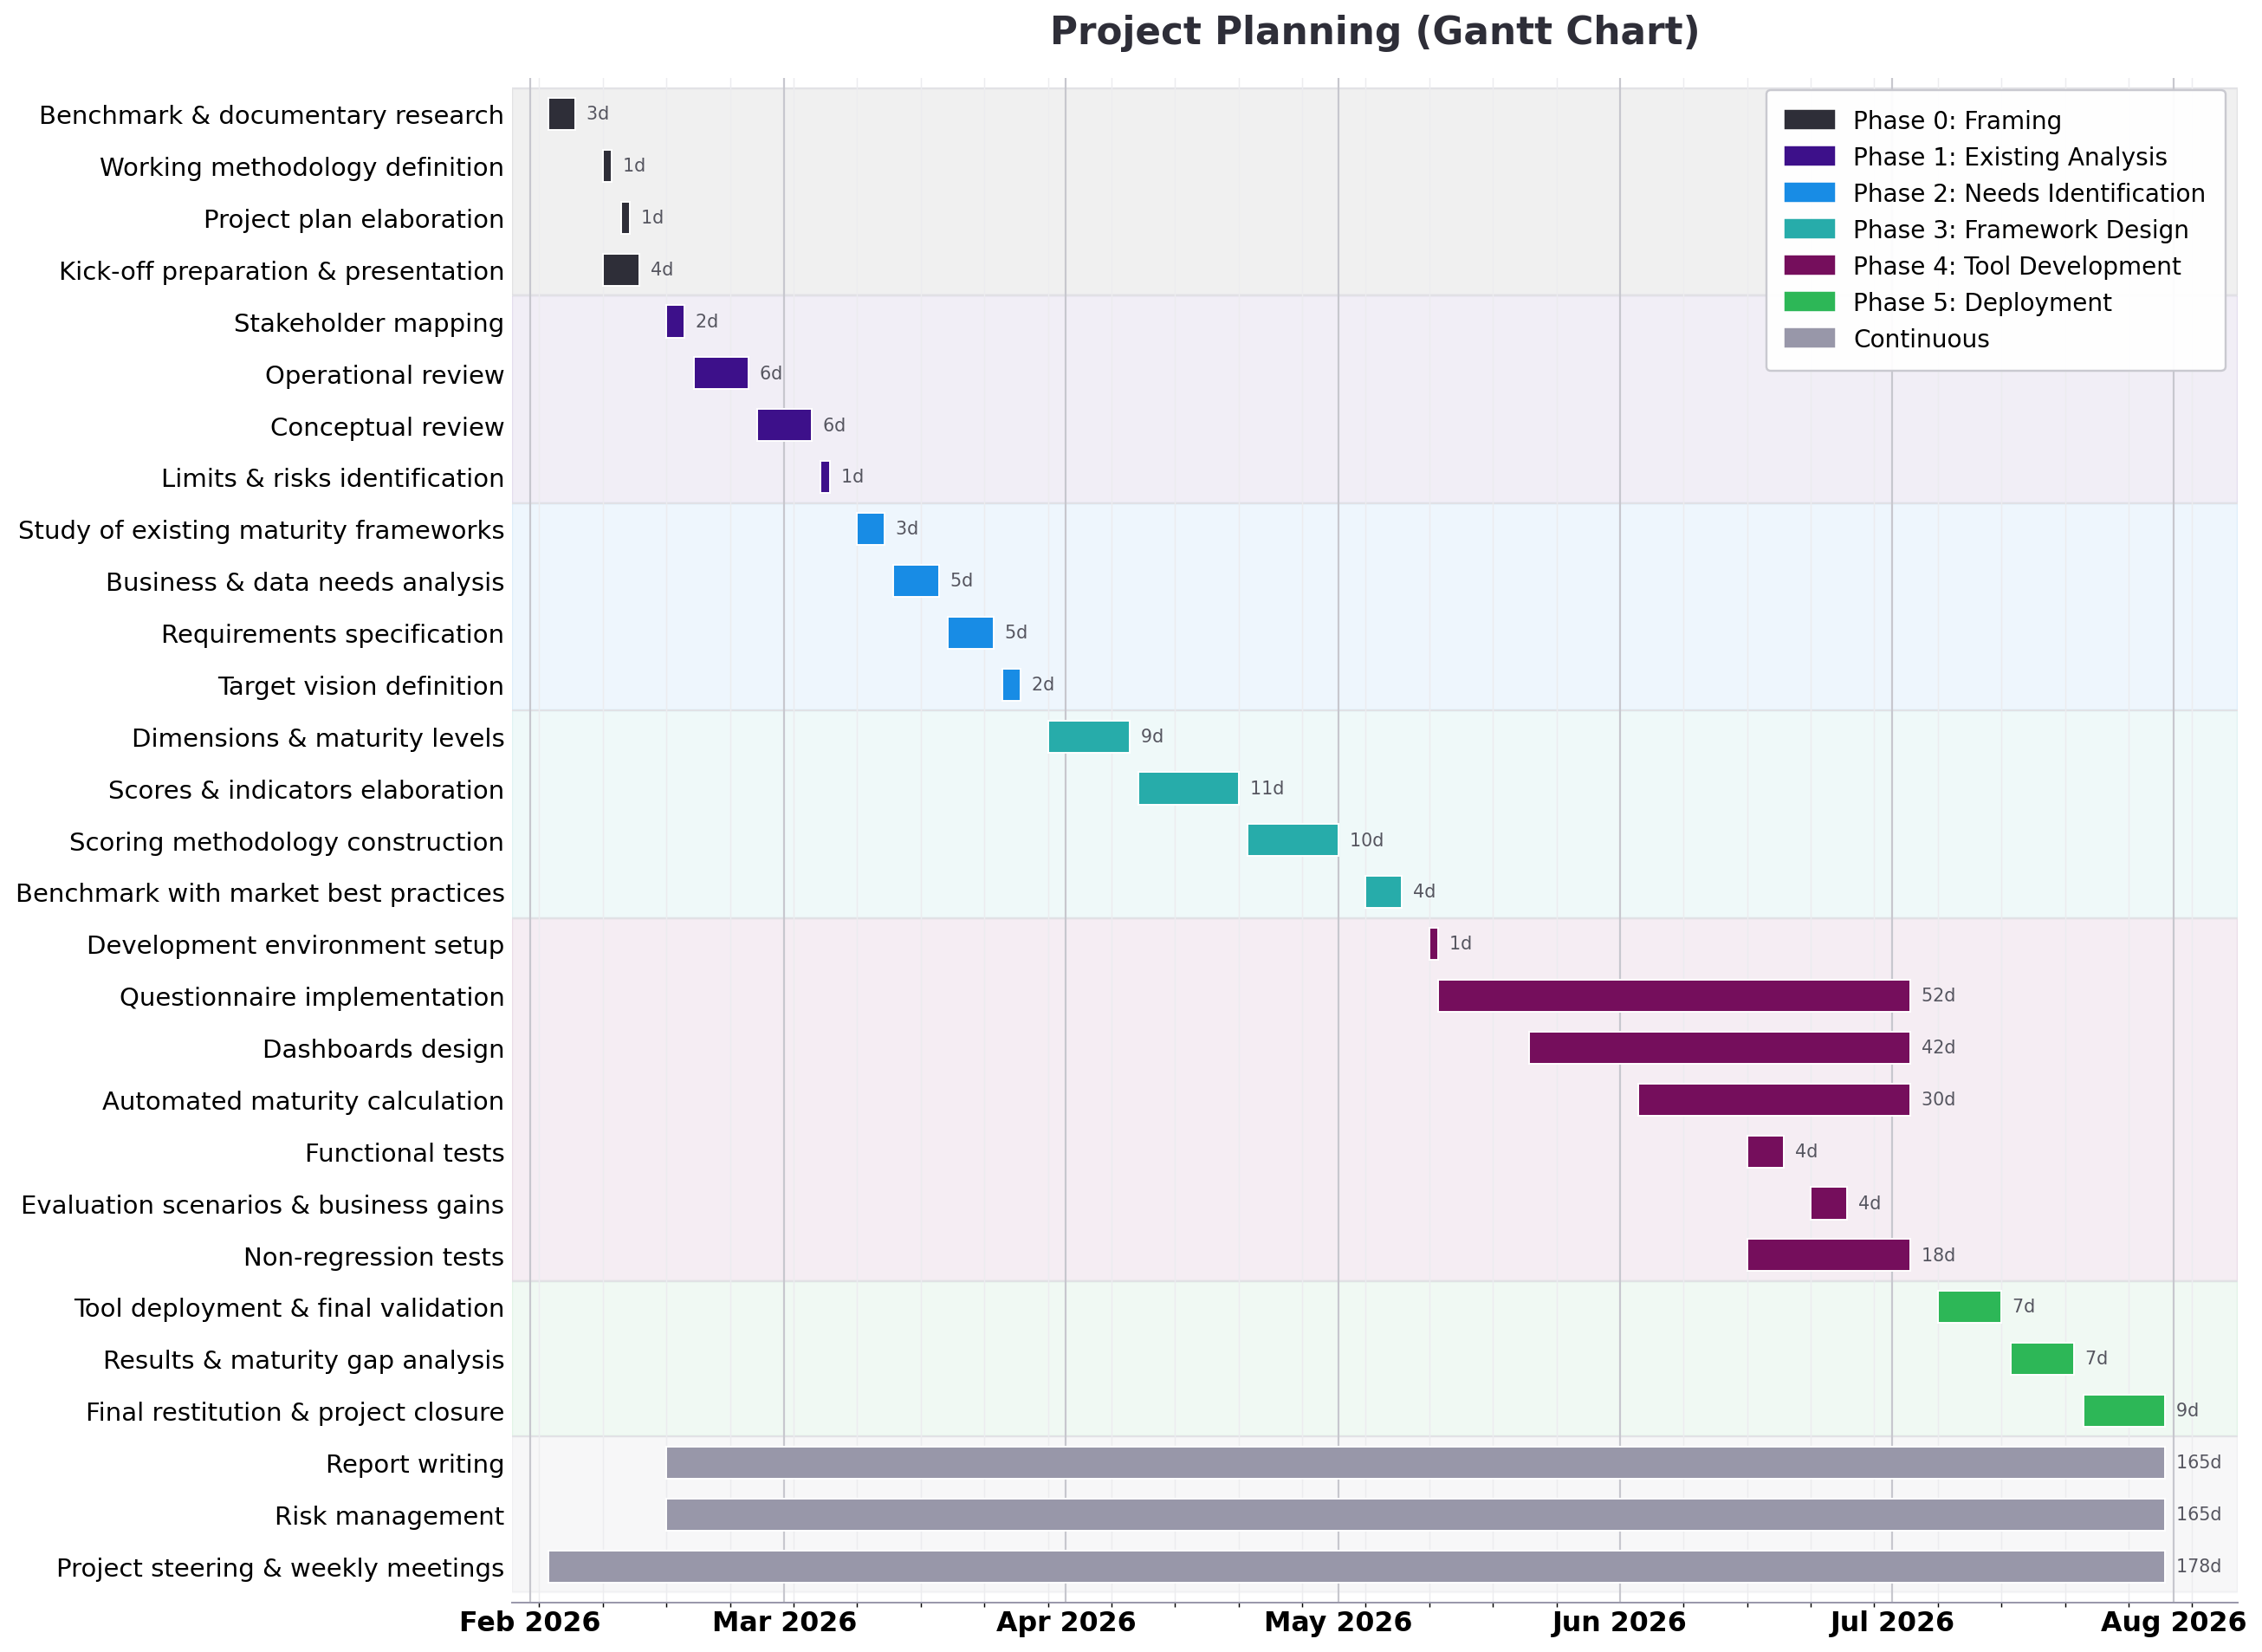
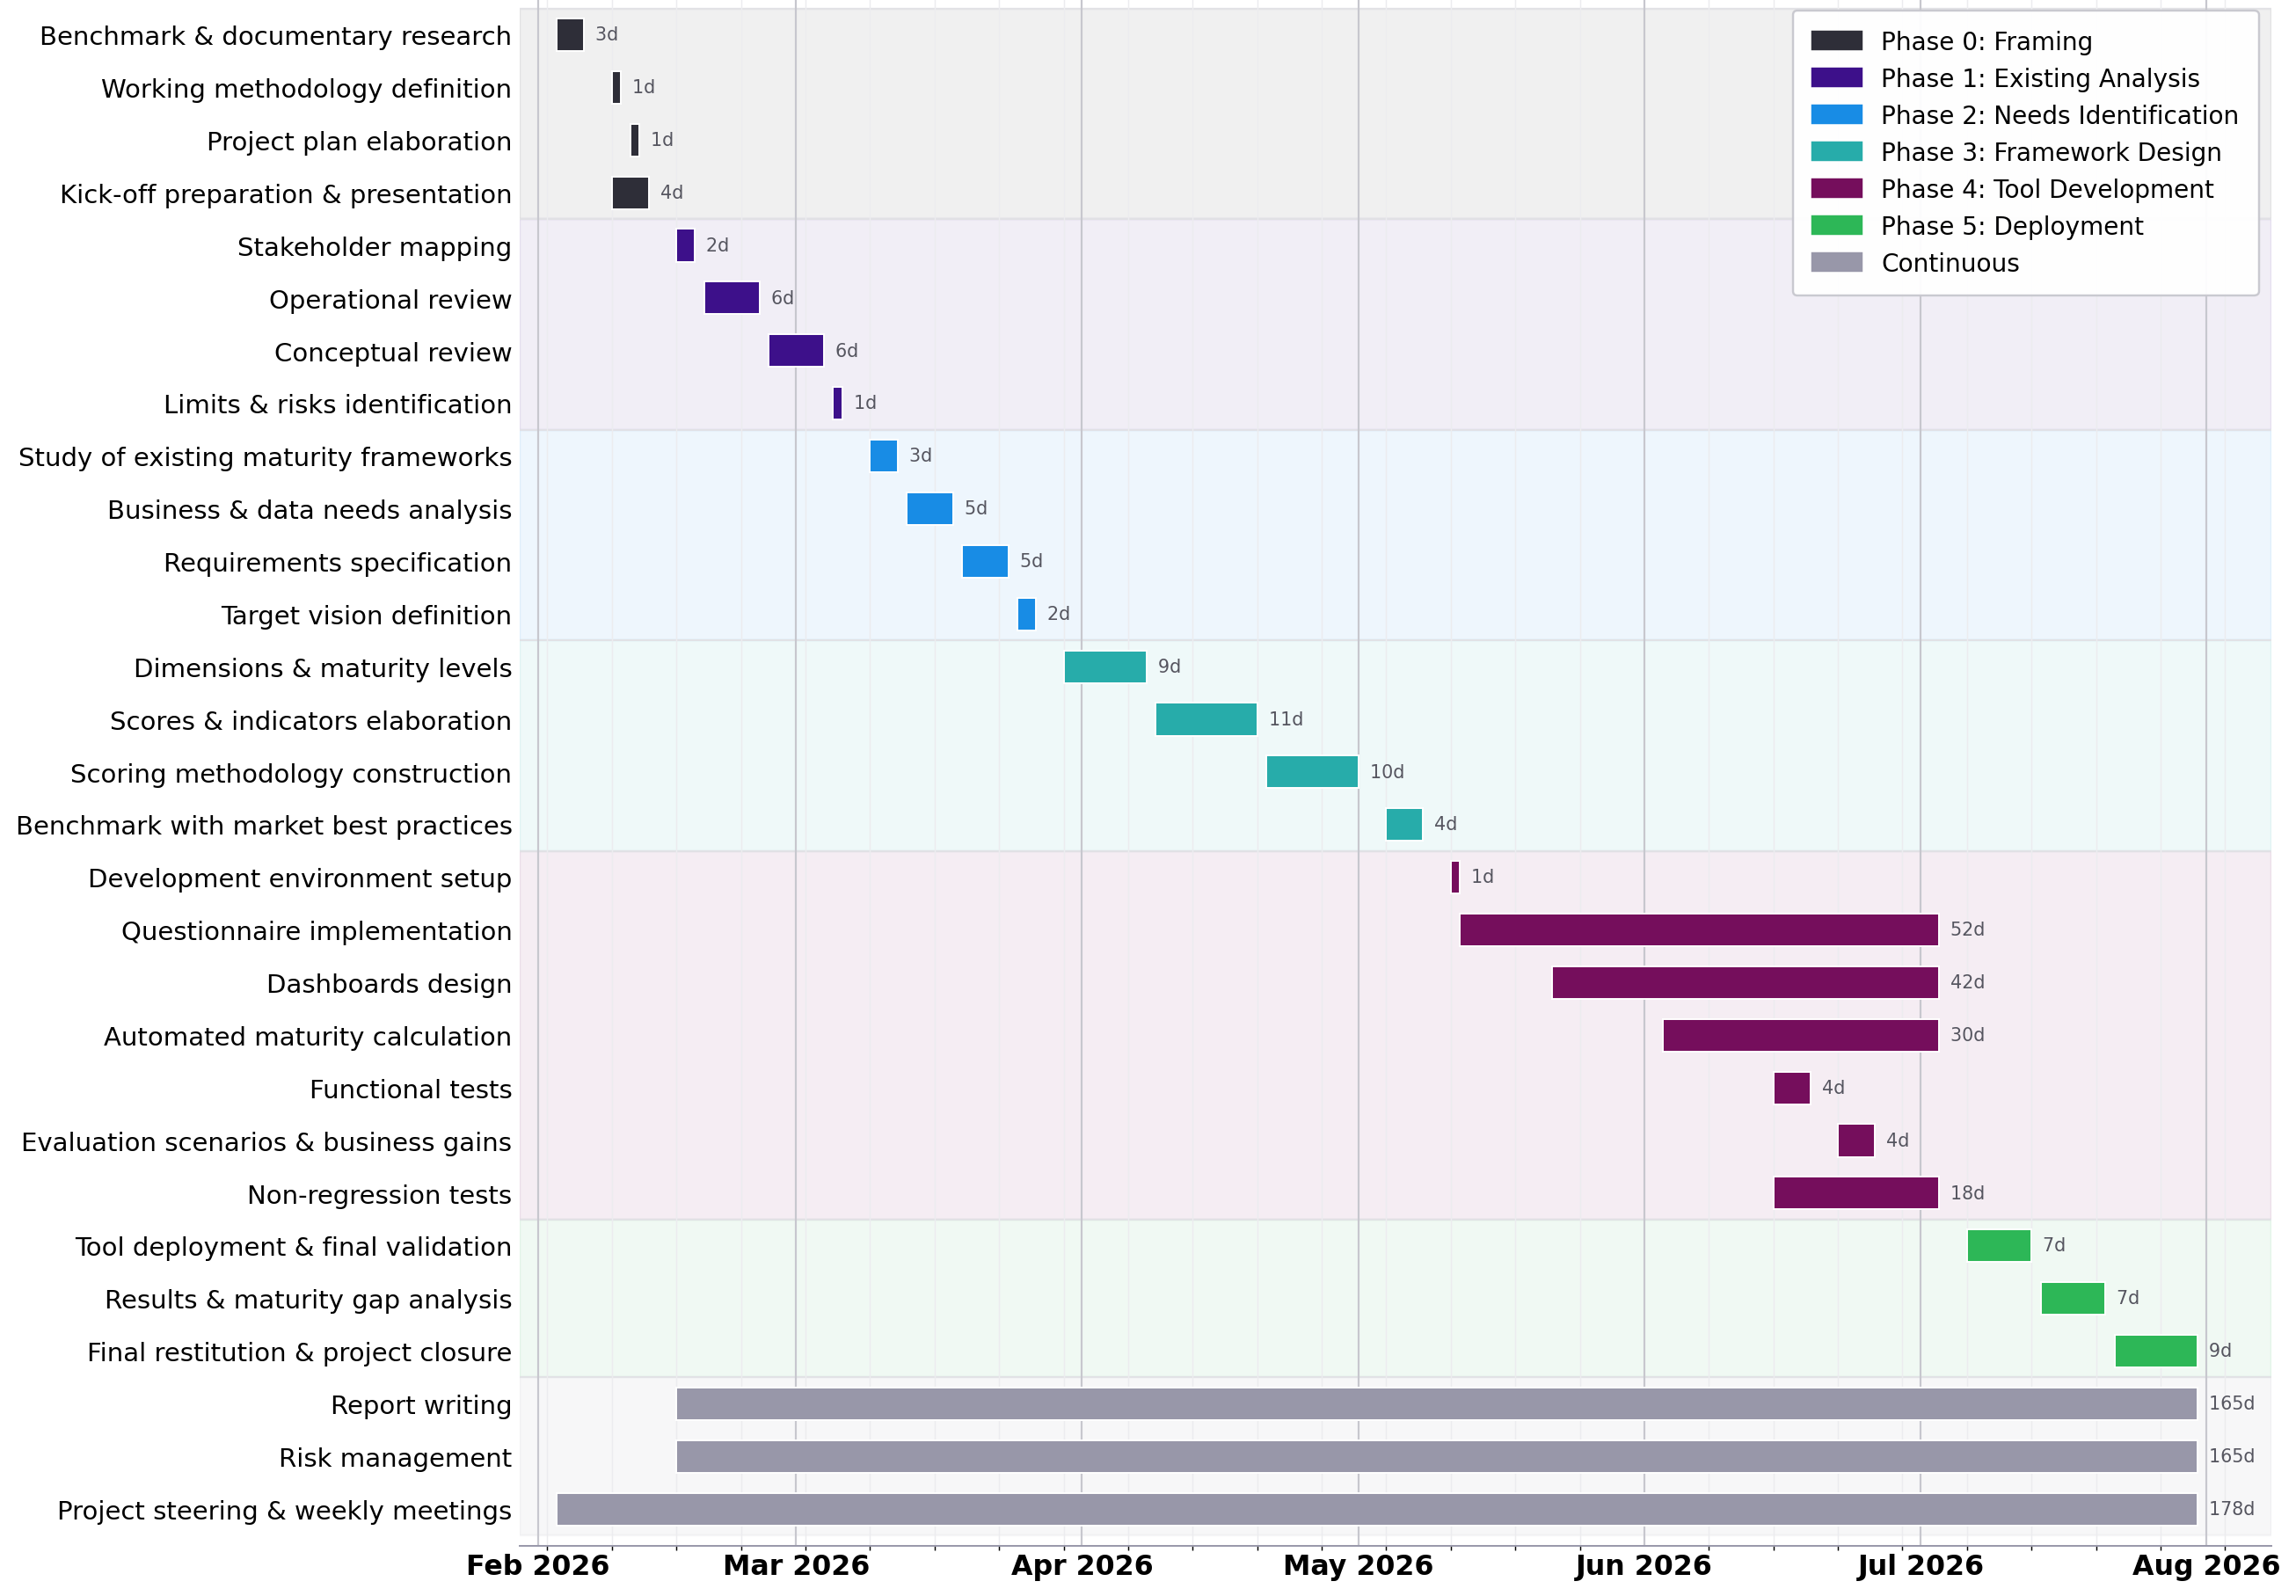
Diagram audit: remove last baked-in titles (layered architecture, Gantt)
Reviewed every diagram against UML conventions (sequence, activity, state,
class, deployment, use case) and for readability. All pass. Removed the two
remaining title-vs-caption duplications: the layered-architecture figure title
and the Gantt chart title (cropped from the static PNG).

Claude-Session: https://claude.ai/code/session_01Yb46ujynRQ8QnatMZG1uPs

Changed region(s): [[0.0, 0.0, 0.3723, 0.9565], [0.2172, 0.2777, 0.9927, 0.9873], [0.4653, 0.0, 0.9617, 0.216]]

diff --git a/pfe_report/diagrams/architecture_layers.py b/pfe_report/diagrams/architecture_layers.py
@@ -64,9 +64,7 @@ def varrow(x, y_top, y_bot, label):
 
 
 # Title
-ax.text(7.5, 14.25, 'Layered Architecture of the DataPilot Platform',
-        ha='center', va='center', fontsize=17, color=CHARCOAL, fontweight='bold')
-ax.text(7.5, 13.82,
+ax.text(7.5, 14.05,
         'React 19, Vite 8, React Router 7, Zustand 5, Tailwind CSS 4, Recharts 3, '
         'Supabase JS client 2, serverless functions',
         ha='center', va='center', fontsize=10.5, color=GRAY)